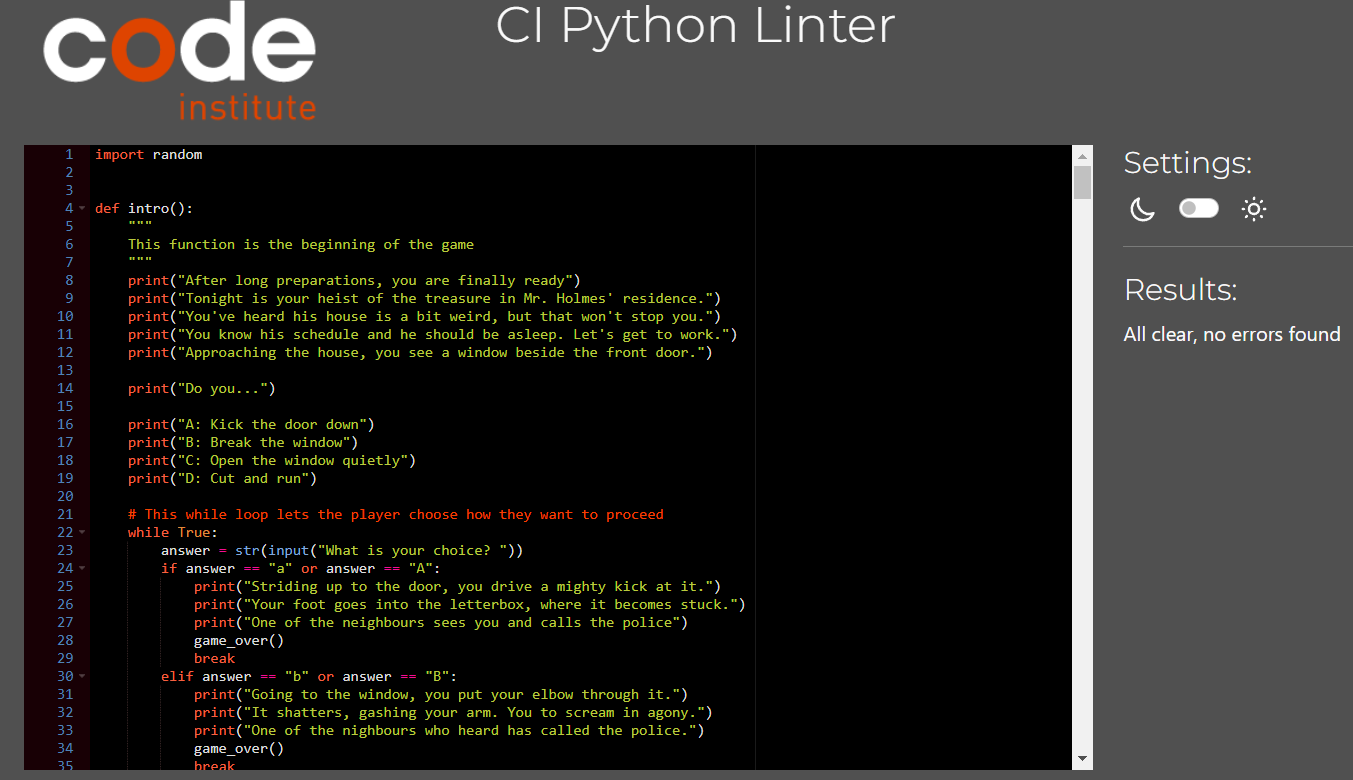
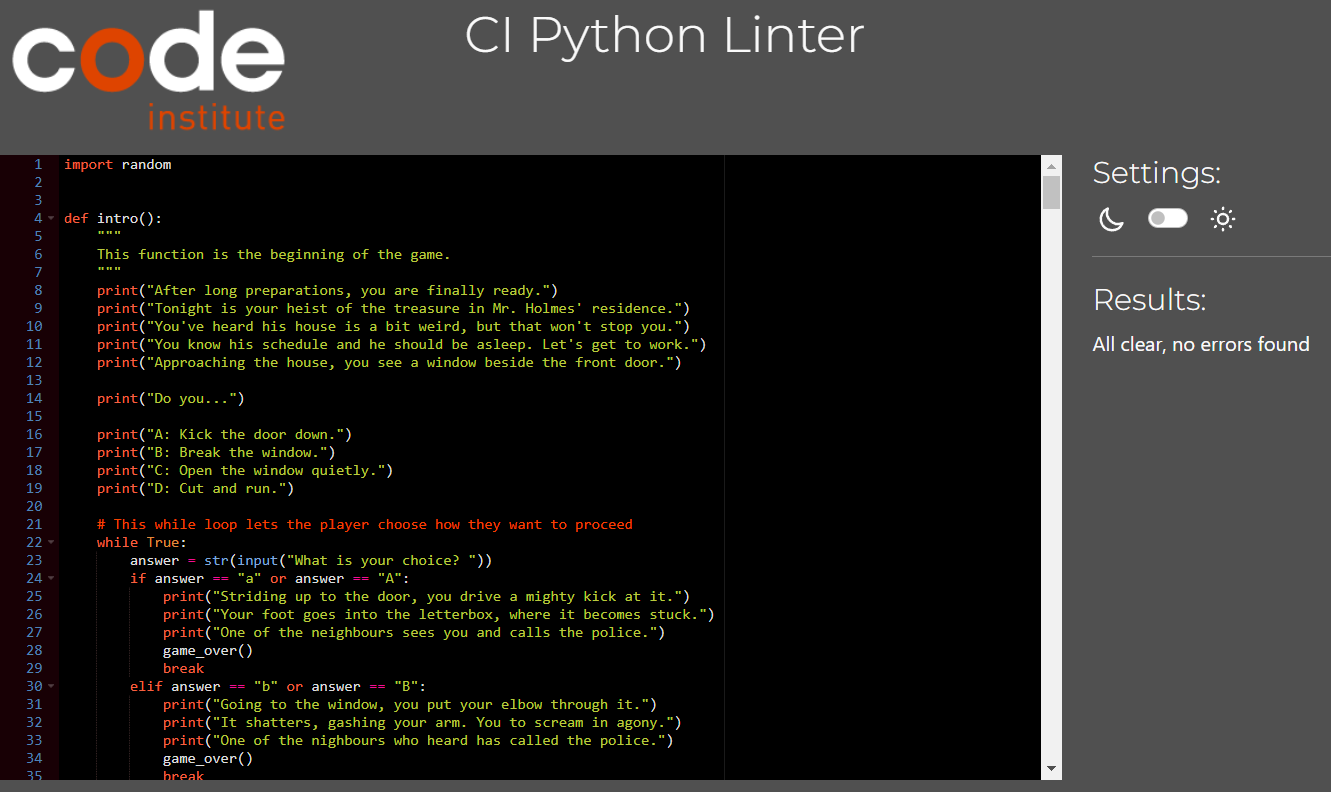
refactor code in run.py and readme to remove typos

Changed region(s): [[0.0, 0.0, 1.0, 1.0], [0.3388, 0.0, 0.6777, 0.0923]]

diff --git a/run.py b/run.py
@@ -3,9 +3,9 @@ import random
 
 def intro():
     """
-    This function is the beginning of the game
+    This function is the beginning of the game.
     """
-    print("After long preparations, you are finally ready")
+    print("After long preparations, you are finally ready.")
     print("Tonight is your heist of the treasure in Mr. Holmes' residence.")
     print("You've heard his house is a bit weird, but that won't stop you.")
     print("You know his schedule and he should be asleep. Let's get to work.")
@@ -13,10 +13,10 @@ def intro():
 
     print("Do you...")
 
-    print("A: Kick the door down")
-    print("B: Break the window")
-    print("C: Open the window quietly")
-    print("D: Cut and run")
+    print("A: Kick the door down.")
+    print("B: Break the window.")
+    print("C: Open the window quietly.")
+    print("D: Cut and run.")
 
     # This while loop lets the player choose how they want to proceed
     while True:
@@ -24,7 +24,7 @@ def intro():
         if answer == "a" or answer == "A":
             print("Striding up to the door, you drive a mighty kick at it.")
             print("Your foot goes into the letterbox, where it becomes stuck.")
-            print("One of the neighbours sees you and calls the police")
+            print("One of the neighbours sees you and calls the police.")
             game_over()
             break
         elif answer == "b" or answer == "B":
@@ -43,20 +43,20 @@ def intro():
             wuss_out()
             break
         else:
-            print("Please choose one of the options shown")
+            print("Please choose one of the options shown.")
 
 
 def first_room():
     """
-    Player choices for the first room
+    Player choices for the first room.
     """
     print("Straightening up, you look around the dark room.")
     print("Do you...")
 
     print("A: Run to the door. Let's get this over with and get out!")
-    print("B: Quietly proceed to the door")
-    print("C: Check the room for valuables")
-    print("D: Cut and run")
+    print("B: Quietly proceed to the door.")
+    print("C: Check the room for valuables.")
+    print("D: Cut and run.")
 
     # This while loop lets the player choose how they want to proceed
     while True:
@@ -81,14 +81,14 @@ def first_room():
             wuss_out()
             break
         else:
-            print("Please choose one of the options shown")
+            print("Please choose one of the options shown.")
 
 
 def corridor():
     """
     This function acts as the main hub of the game.
     From here the player can head to the ending
-    or try optional challenges
+    or try optional challenges.
     """
     print("Closing the door, you find yourself in the shadowy corridor.")
     print("Do you...")
@@ -126,13 +126,13 @@ def corridor():
             wuss_out()
             break
         else:
-            print("Please choose one of the options shown")
+            print("Please choose one of the options shown.")
 
 
 def lounge():
     """
     This function brings the player into the lounge.
-    Here they can encounter an optional puzzle
+    Here they can encounter an optional puzzle.
     """
     print("The lounge is richly furnished.")
     print("You see a book bound in gold on the mantlepiece.")
@@ -171,12 +171,12 @@ def lounge():
             corridor()
             break
         else:
-            print("Please choose one of the options shown")
+            print("Please choose one of the options shown.")
 
 
 def lounge_trap():
     """
-    This function activates the trap minigame in the lounge room
+    This function activates the trap minigame in the lounge room.
     """
     print("Manacles spring from the mantlepiece and close around your wrists.")
     print("You pull at them to no avail.")
@@ -220,8 +220,8 @@ def lounge_trap():
 
 def trophy_room():
     """
-    This function allows the player to enter the trophy room
-    Here, they choose whether to engage with an optional puzzle
+    This function allows the player to enter the trophy room.
+    Here, they choose whether to engage with an optional puzzle.
     """
     print("Closing the door behind you, you see the room is bare.")
     print("Save the golden trophy set on a pedastal in the centre.")
@@ -265,12 +265,12 @@ def trophy_room():
 def trophy_trap():
     """
     Provides an optional puzzle by asking the player to
-    solve a word puzzle formed from rearranged letters in a string
+    solve a word puzzle formed from rearranged letters in a string.
     """
     password = "AVARICIOUS"
 
     # password_question rearranges the password letters
-    # this creates a puzzle for the player
+    # This creates a puzzle for the player
     password_question = "".join(random.sample(password, len(password)))
 
     print("Starting to panic, you look for a solution.")
@@ -331,14 +331,14 @@ def saferoom_door():
             wuss_out()
             break
         else:
-            print("Please choose one of the options shown")
+            print("Please choose one of the options shown.")
 
 
 def lockpicker():
     """
     This function provides a minigame based on player input
     """
-    print("You prepare to pick the lock")
+    print("You prepare to pick the lock.")
     print("You listen intently for any click to tell you it's opening.")
     print("It looks like a normal 3 pin lock; 3 clicks and it's open.")
     print("Move the pick the wrong way and you'll have to start over.")
@@ -346,7 +346,7 @@ def lockpicker():
     print("Move it in the wrong direction 3 times and it'll snap.")
     print("Type in the way you wish to move the pick:")
     print("1 is up, 2 is right, 3 is down and 4 is left.")
-    print("Then press ENTER")
+    print("Then press ENTER.")
 
     turns_to_break = 3
 
@@ -375,9 +375,9 @@ def lockpicker():
                     else:
                         print("Clunk! That's not right!")
                         print("Remember the rhyme you made up while training:")
-                        print("'Check once, think before you check twice'")
+                        print("'Check once, think before you check twice.'")
                         turns_to_break -= 1
-                        print(f"{turns_to_break} more and the pick breaks")
+                        print(f"{turns_to_break} more and the pick breaks.")
                         if turns_to_break == 0:
                             print("The lockpick snaps in the keyhole.")
                             print("You curse, frustrated, and kick the door.")
@@ -387,9 +387,9 @@ def lockpicker():
                 else:
                     print("Clunk! That's not right!")
                     print("Remember the rhyme you made up while training:")
-                    print("'Check once, think before you check twice'")
+                    print("'Check once, think before you check twice.'")
                     turns_to_break -= 1
-                    print(f"{turns_to_break} more and the pick breaks")
+                    print(f"{turns_to_break} more and the pick breaks.")
                     if turns_to_break == 0:
                         print("The lockpick snaps in the keyhole.")
                         print("You curse, frustrated, and kick the door.")
@@ -399,9 +399,9 @@ def lockpicker():
             else:
                 print("Clunk! That's not right!")
                 print("Remember the rhyme you made up while training:")
-                print("'Check once, think before you check twice'")
+                print("'Check once, think before you check twice.'")
                 turns_to_break -= 1
-                print(f"{turns_to_break} more and the pick breaks")
+                print(f"{turns_to_break} more and the pick breaks.")
                 if turns_to_break == 0:
                     print("The lockpick snaps in the keyhole.")
                     print("You curse, frustrated, and kick the door.")
@@ -421,9 +421,9 @@ def last_room():
     print("It reveals a small safe.")
     print("Do you...")
 
-    print("A: Open the safe")
-    print("B: Go back to corridor")
-    print("C: Cut and run")
+    print("A: Open the safe.")
+    print("B: Go back to corridor.")
+    print("C: Cut and run.")
 
     # This while loop lets the player choose how they want to proceed
     while True:
@@ -443,7 +443,7 @@ def last_room():
             wuss_out()
             break
         else:
-            print("Please choose one of the options shown")
+            print("Please choose one of the options shown.")
 
 
 def safecracker():
@@ -493,21 +493,21 @@ def safecracker():
                         game_won()
                         break
                     else:
-                        print("Wrong, start again")
+                        print("Wrong, start again.")
                         attempts -= 1
-                        print(f"{attempts} attempts remaining")
+                        print(f"{attempts} attempts remaining.")
                     if attempts == 0:
                         game_over()
                 else:
-                    print("Wrong, start again")
+                    print("Wrong, start again.")
                     attempts -= 1
-                    print(f"{attempts} attempts remaining")
+                    print(f"{attempts} attempts remaining.")
                     if attempts == 0:
                         game_over()
             else:
                 print("What are you doing?! You know this one!")
                 attempts -= 1
-                print(f"{attempts} attempts remaining")
+                print(f"{attempts} attempts remaining.")
                 if attempts == 0:
                     game_over()
         except ValueError:
@@ -519,7 +519,7 @@ def game_won():
     Ends the game in a victory state
     """
     print("The safe door swings open.")
-    print("Hardly daring to believe, you grasp the prize with trembling hands")
+    print("Hardly daring to believe, you grip the prize with trembling hands.")
     print("Finally! You can prove that you are the ultimate Word Burglar!")
     print("You hold it up to a shaft of moonlight.")
     print("You can clearly see the ultimate prize:")
@@ -544,7 +544,7 @@ def game_over():
         elif answer == "n" or answer == "N":
             main()
         else:
-            print("Please choose one of the options shown")
+            print("Please choose one of the options shown.")
 
 
 def gruesome_death():
@@ -562,7 +562,7 @@ def gruesome_death():
         elif answer == "n" or answer == "N":
             main()
         else:
-            print("Please choose one of the options shown")
+            print("Please choose one of the options shown.")
 
 
 def wuss_out():
@@ -580,7 +580,7 @@ def wuss_out():
         elif answer == "n" or answer == "N":
             main()
         else:
-            print("Please choose one of the options shown")
+            print("Please choose one of the options shown.")
 
 
 def main():
@@ -592,7 +592,7 @@ def main():
     print("In this text-based game you will make choices to pull off a heist.")
     print("Your objective is to find the treasure hidden in the house.")
     print("As you progress, you will be presented with choices in each room.")
-    print("Make your choice by typing the corresponding letter, then ENTER")
+    print("Make your choice by typing the corresponding letter, then ENTER.")
 
     # This lets the player input a name
     # Names cannot be longer than 15 characters

diff --git a/README.md b/README.md
@@ -134,8 +134,8 @@ Manual testing was conducted on all aspects to ensure the program worked as inte
 
 The above tests were also conducted by an outside user, who recorded the same outcomes.
 
-The code was tested using a pep8 linter for compliance, no issues were found:
-![Safecracker](assets/readme-images/image-9.png))
+The code was tested using a PEP8 linter for compliance, no issues were found:
+![PEP8 results](assets/readme-images/image-9.png)
 
 ## Bugs
 
@@ -190,10 +190,10 @@ The program can now ben viewed with the open app button in the top right.
 The below was used to assist in writing if statements that would accept correct inputs of any case:
 https://www.reddit.com/r/learnpython/comments/u9ts2r/python_ignoring_my_elif_statement/
 
-The below was used to implement the while loop feature to restart a given choice if an invalid option was entered:
+The below was used as a reference to implement the while loop feature to restart a given choice if an invalid option was entered:
 https://stackoverflow.com/questions/64070816/how-to-restart-a-loop-if-the-input-is-wrong
 
-This was used to help write the logic to scramble the answer in trophy_trap()
+This was used to help write the logic to scramble the answer in trophy_trap():
 https://www.youtube.com/watch?v=vtjLxNU6eyk
 
 This was used to help figure out the logic for safecracker():
